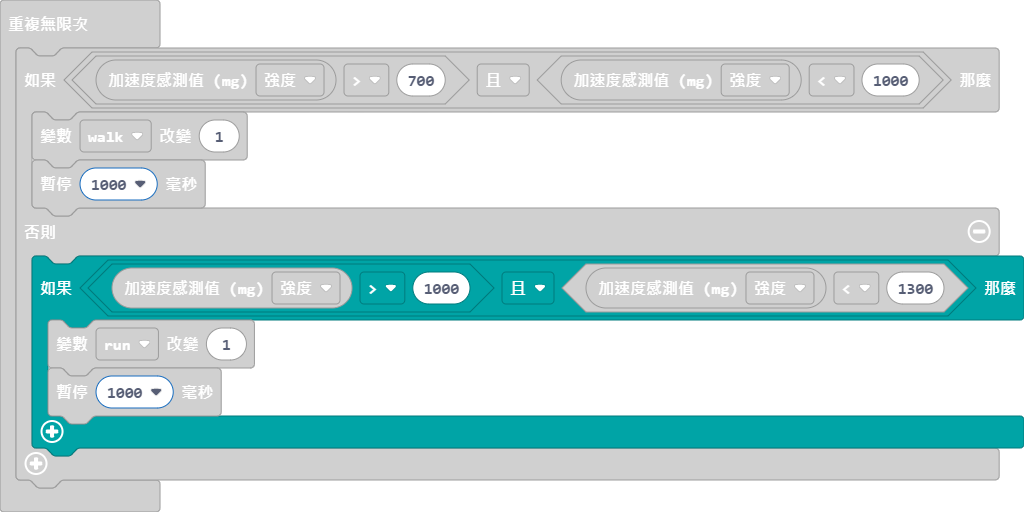
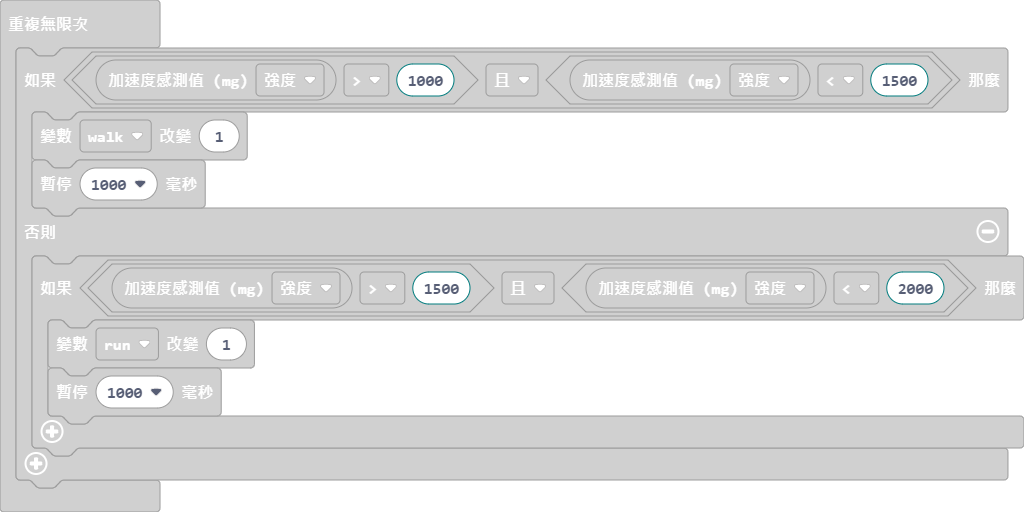
更新 main.blocks, main.ts

diff --git a/main.ts b/main.ts
@@ -13,11 +13,11 @@ let walk = 0
 walk = 0
 run = 0
 basic.forever(function () {
-    if (input.acceleration(Dimension.Strength) > 700 && input.acceleration(Dimension.Strength) < 1000) {
+    if (input.acceleration(Dimension.Strength) > 1000 && input.acceleration(Dimension.Strength) < 1500) {
         walk += 1
         basic.pause(1000)
     } else {
-        if (input.acceleration(Dimension.Strength) > 1000 && input.acceleration(Dimension.Strength) < 1300) {
+        if (input.acceleration(Dimension.Strength) > 1500 && input.acceleration(Dimension.Strength) < 2000) {
             run += 1
             basic.pause(1000)
         }
